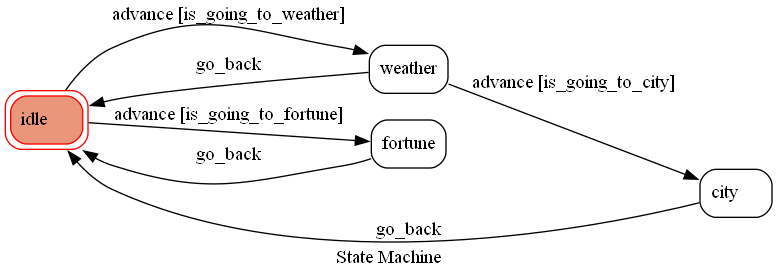
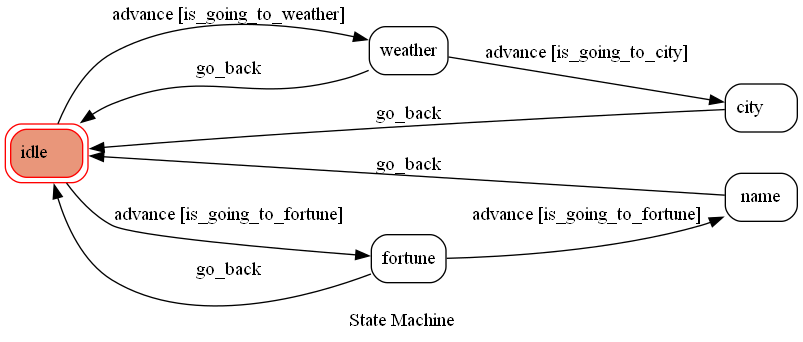
test

diff --git a/app.py b/app.py
@@ -12,11 +12,11 @@ from linebot.models import *
 import re
 import json,requests
 import random
+
+
 from fsm import TocMachine
 import os
 load_dotenv()
-
-
 machine = TocMachine(
     states=["idle", "weather", "city"],
     transitions=[
@@ -25,6 +25,12 @@ machine = TocMachine(
             "source": "idle",
             "dest": "weather",
             "conditions": "is_going_to_weather",
+        },
+        {
+            "trigger": "advance",
+            "source": "fortune",
+            "dest": "name",
+            "conditions": "is_going_to_fortune",
         },
         {  "trigger": "advance",
             "source": "weather",
@@ -36,7 +42,7 @@ machine = TocMachine(
             "dest" : "fortune",
             "conditions":"is_going_to_fortune"
         },
-        {"trigger": "go_back", "source": ["weather", "city", "fortune"], "dest": "idle"},
+        {"trigger": "go_back", "source": ["weather", "city", "fortune","name"], "dest": "idle"},
     ],
     initial="idle",
     auto_transitions=False,
@@ -53,7 +59,8 @@ handler = WebhookHandler(channel_secret)
 
 region=""
 state="idle"
-
+name = ""
+sign = ""
 # 監聽所有來自 /callback 的 Post Request
 @app.route("/callback", methods=['POST'])
 def callback():
@@ -84,19 +91,19 @@ def get(city):
     return res
 
 #訊息傳遞區塊
-line_bot_api.push_message('Uc58783194ae42125c3e691cbeedb84b1', TextSendMessage(text='美好的一天從現在開始!\n想知道甚麼資訊呢?\n輸入:\n 天氣\n 運勢\n 試試看吧!'))
+line_bot_api.push_message('Uc58783194ae42125c3e691cbeedb84b1', TextSendMessage(text='美好的一天從現在開始!\n想知道甚麼資訊呢?\n輸入:\n 天氣(提供未來36小時之預報~\n 運勢(抽個大吉!開心一下!\n 試試看吧!'))
 
 ##### 基本上程式編輯都在這個function #####
 @handler.add(MessageEvent, message=TextMessage)
 def handle_message(event):
-    global state,region
+    global state,region,name,sign
     
     reply_token = event.reply_token
     message =text= event.message.text
+        
     if re.match(message, '天氣') or re.match(state,'weather')or re.match(state,'city'):
         if re.match(state,'idle'):
             state="weather"
-          
             line_bot_api.reply_message(reply_token,TextSendMessage(text='選擇地區:\n 北部\n 中部\n 南部\n 東部\n 外島'))
         elif re.match(state,'weather'):
             if re.match(message, '北部'):
@@ -163,17 +170,31 @@ def handle_message(event):
                     
                    
             else: 
-                    line_bot_api.reply_message(reply_token, TextSendMessage(text="尚未選擇縣市，重新輸入:\n 天氣\n 運勢")) 
-                    region=""
-                    state="idle"
-    elif re.match(message,'運勢'):
-        fortune = random.choice(['大凶', '凶', '末吉', '吉','中吉','大吉'])
-        line_bot_api.reply_message(event.reply_token, TextSendMessage(text="今日運勢: "+fortune))  
+                line_bot_api.reply_message(reply_token, TextSendMessage(text="尚未選擇縣市，重新輸入:\n 天氣\n 運勢")) 
+                region=""
+                state="idle"
+    elif re.match(message,'運勢') or re.match(state,'fortune') or re.match(state,'name'):
+            
+        if re.match(state,'fortune') :
+            state = 'name'
+            name = message
+            line_bot_api.reply_message(reply_token,TextSendMessage(text='請輸入您的星座'))
+        elif re.match(state,'name') :
+            state = 'idle'
+            sign = message
+            fortune = random.choice(['大凶', '凶', '末吉', '吉','小吉','中吉','大吉'])
+            line_bot_api.reply_message(reply_token,TextSendMessage(text='經過我深思熟慮後，{}的{}，其運勢為:{}'.format(sign,name,fortune)))
+        elif re.match(state,'idle'):
+            name=sign=""
+            state = "fortune"
+            line_bot_api.reply_message(event.reply_token, TextSendMessage(text="我將為您抽取一張運勢卡片，請問您的名字是?"))  
+        else:
+            state = 'idle'
+            line_bot_api.reply_message(reply_token,TextSendMessage(text='請重新輸入:\n 天氣\n 運勢'))
     else :
-        
-            state = "idle"
-            region=""
-            line_bot_api.reply_message(reply_token,TextSendMessage(text='輸入錯誤! 請重新輸入:\n 天氣\n 運勢'))
+        state = "idle"
+        region=""
+        line_bot_api.reply_message(reply_token,TextSendMessage(text='請重新輸入:\n 天氣\n 運勢'))
 
 @app.route("/show_fsm", methods=['POST'])            
 def show_fsm():

diff --git a/fsm.py b/fsm.py
@@ -3,7 +3,9 @@ from transitions.extensions import GraphMachine
 class TocMachine(GraphMachine):
     def __init__(self, **machine_configs):
         self.machine = GraphMachine(model=self, **machine_configs)
-    
+    def is_going_to_name(self,event):
+        text = event.message.text
+        return text.lower() == "go to name"
     def is_going_to_weather(self, event):
         text = event.message.text
         return text.lower() == "go to weather"
@@ -24,3 +26,5 @@ class TocMachine(GraphMachine):
 
     def on_exit_city(self):
         print("Leaving city")
+    def on_exit_name(self):
+        print("Leaving name")
